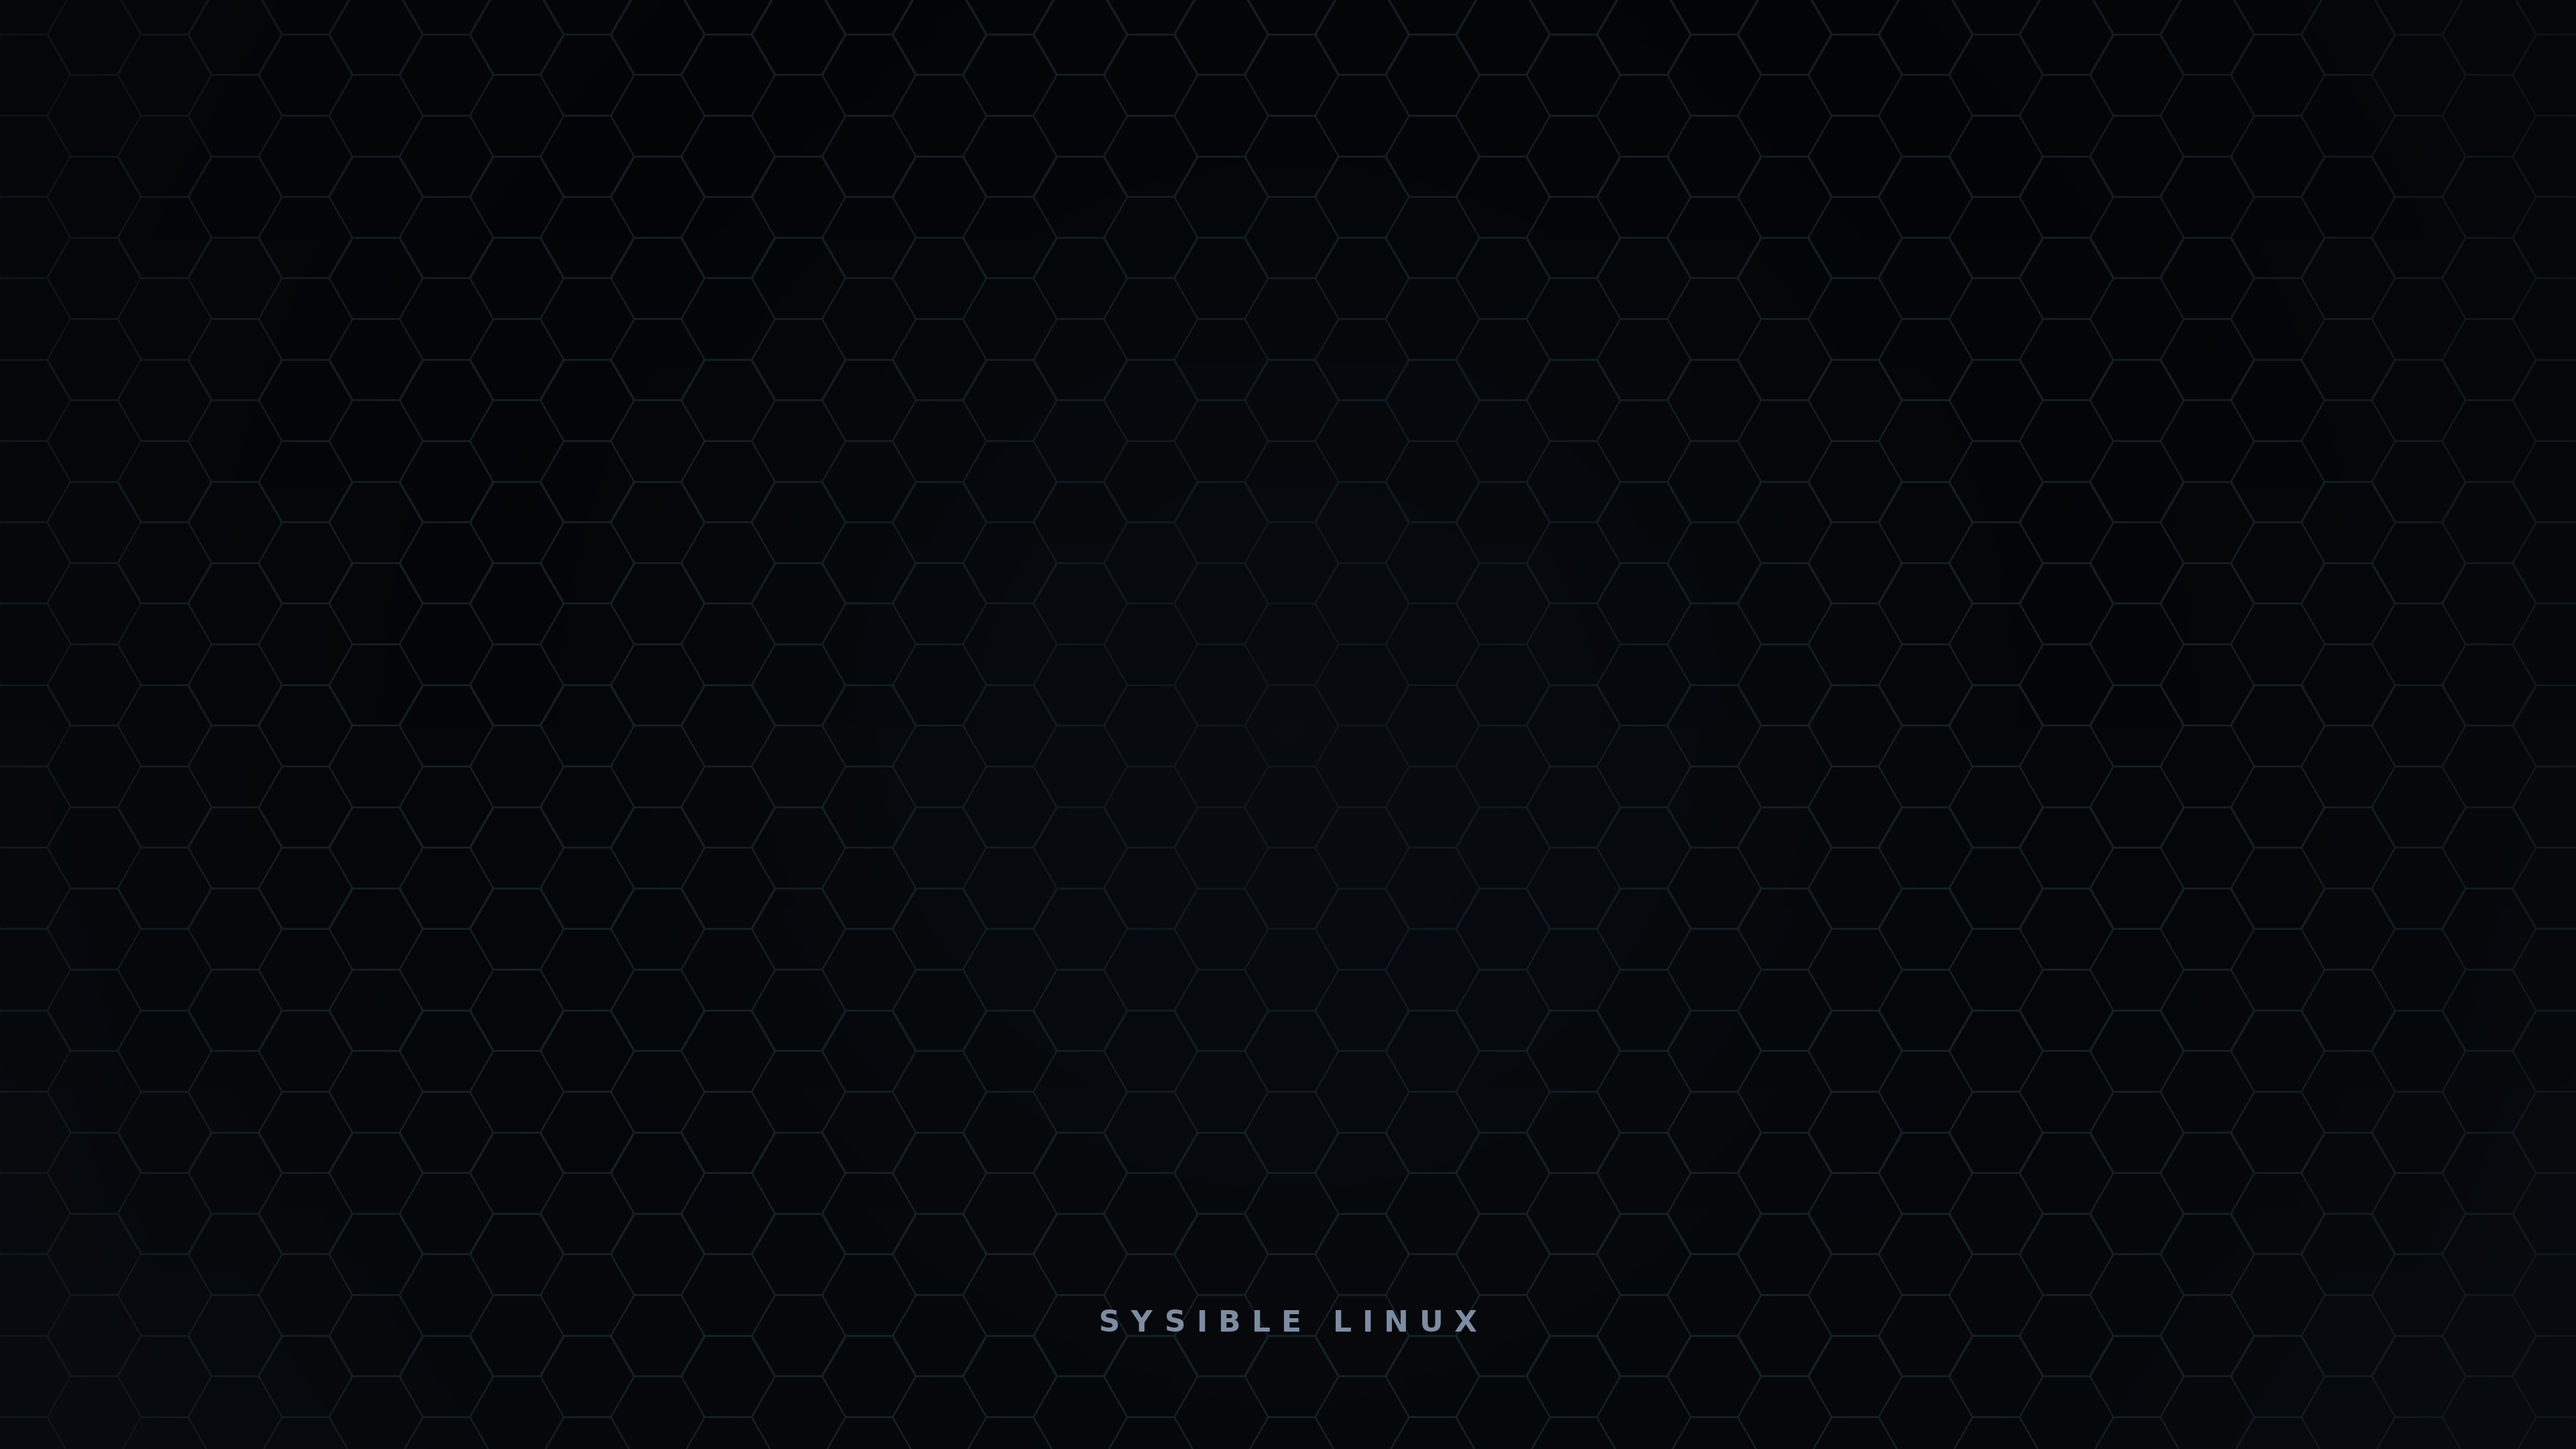
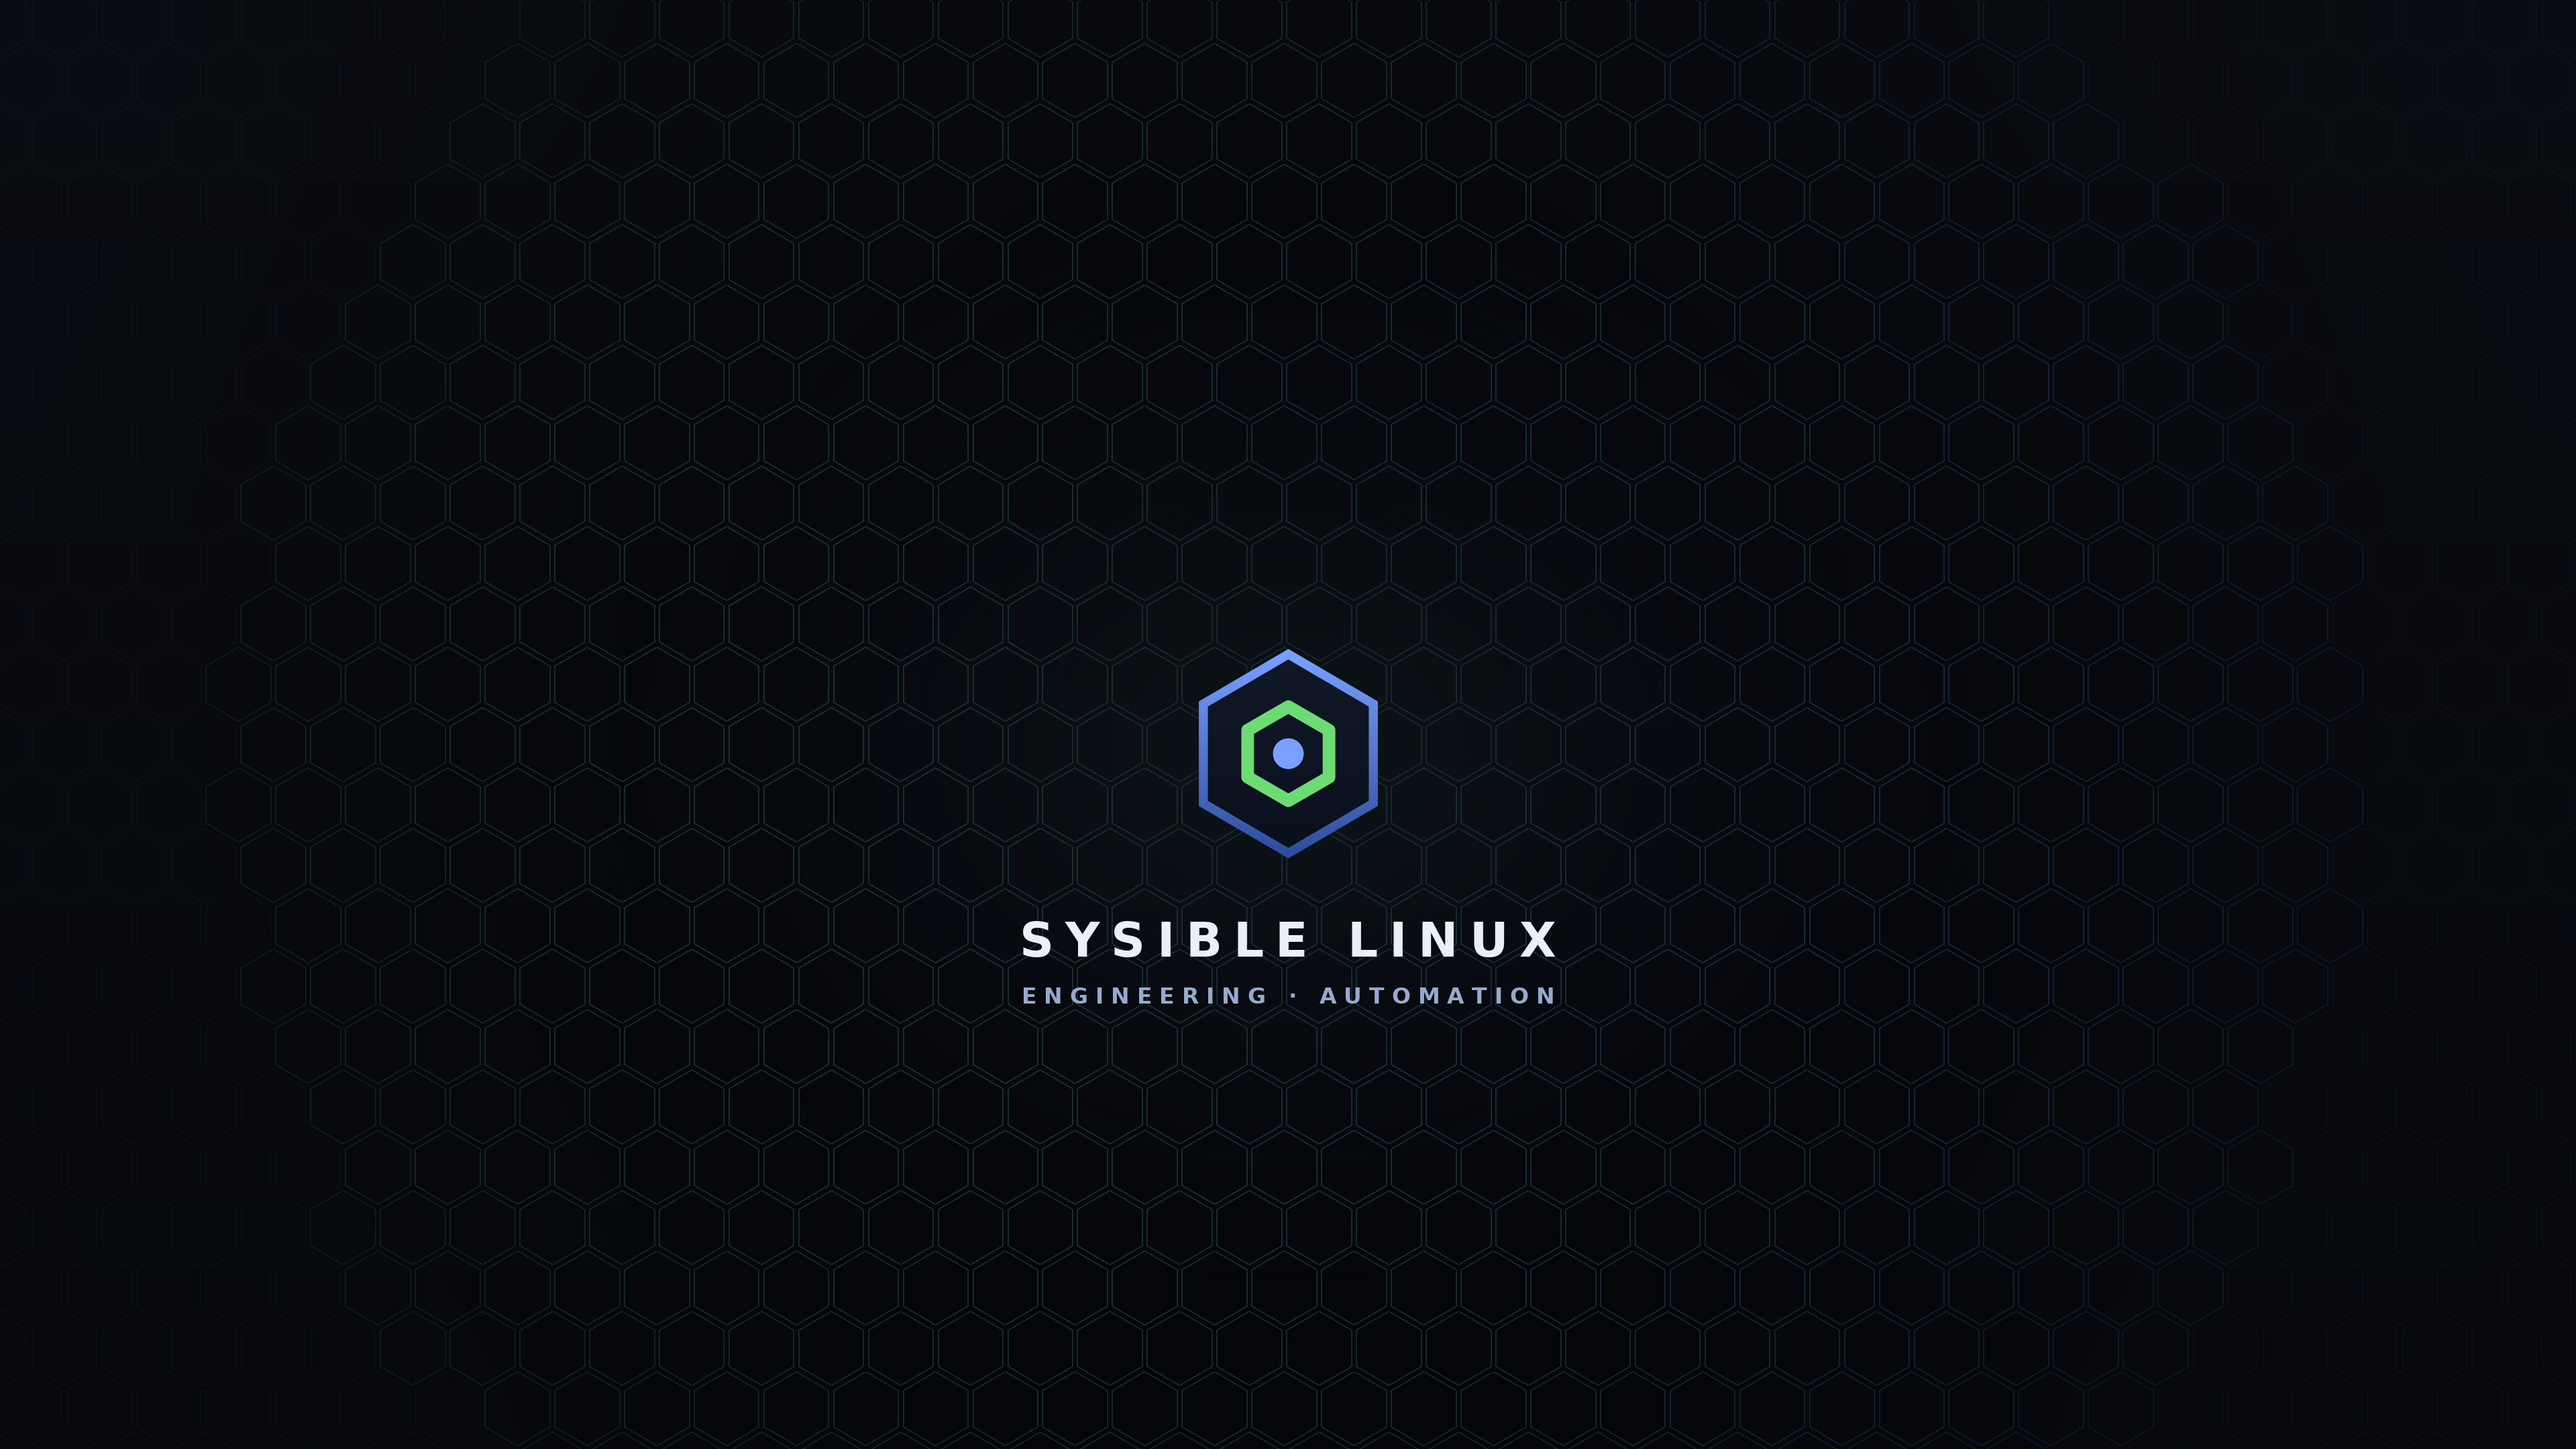
Login/lock screen: add the ENGINEERING · AUTOMATION tagline under the wordmark
The GDM login/lock background showed only 'SYSIBLE LINUX'. Add the tagline
beneath it so it matches the desktop wallpaper and boot splash.

Claude-Session: https://claude.ai/code/session_01Rykm1PRspyG3mLbsfLyocH

diff --git a/branding/lockscreen/render-lock.py b/branding/lockscreen/render-lock.py
@@ -111,7 +111,12 @@ def render(W, H, out):
     draw = ImageDraw.Draw(base)
     fs = int(H * 0.033)
     font = ImageFont.truetype("/usr/share/fonts/truetype/dejavu/DejaVuSans-Bold.ttf", fs)
-    _wordmark(draw, "SYSIBLE LINUX", font, cx, ly + lh + int(H * 0.03), FG, int(H * 0.008))
+    wy = ly + lh + int(H * 0.03)
+    _wordmark(draw, "SYSIBLE LINUX", font, cx, wy, FG, int(H * 0.008))
+    # tagline beneath the wordmark (matches the desktop wallpaper + boot splash)
+    tfs = int(H * 0.0155)
+    tfont = ImageFont.truetype("/usr/share/fonts/truetype/dejavu/DejaVuSans-Bold.ttf", tfs)
+    _wordmark(draw, "ENGINEERING · AUTOMATION", tfont, cx, wy + fs + int(H * 0.016), (150, 170, 205), int(H * 0.0055))
 
     base.convert("RGB").save(out)
     print("wrote %s (%dx%d)" % (out, W, H))
